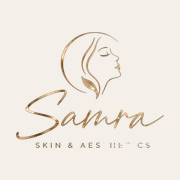
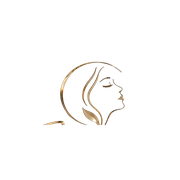
Rebuild welcome as HTML with clean lockup cutouts
Recreate transparent Samra logos from the original artwork (no cream plate),
drop the full-bleed target image + hotspot overlays, and compose the home
page with GateShell, live type, and real CTA buttons to match the target look.

diff --git a/clinic-management/src/app/globals.css b/clinic-management/src/app/globals.css
@@ -57,54 +57,6 @@ body {
   min-height: 100vh;
 }
 
-/* —— Public welcome: exact welcome-screen-target art + CTA hotspots —— */
-.welcome-target {
-  min-height: 100vh;
-  min-height: 100dvh;
-  display: grid;
-  place-items: center;
-  /* Match the mock’s champagne→sage field so letterboxing blends */
-  background: linear-gradient(152deg, #eddccc 0%, #e7ddd2 34%, #d5ddd4 68%, #c5d0c4 100%);
-  padding: 0;
-}
-
-.welcome-target__stage {
-  position: relative;
-  width: min(100vw, calc(100dvh * 864 / 1152));
-  max-width: 28rem;
-  line-height: 0;
-  animation: gate-in 560ms cubic-bezier(0.22, 1, 0.36, 1) both;
-}
-
-.welcome-target__art {
-  display: block;
-  width: 100%;
-  height: auto;
-}
-
-.welcome-target__hit {
-  position: absolute;
-  /* Calibrated to welcome-screen-target.jpg button pills */
-  top: 83.25%;
-  height: 4.6%;
-  border-radius: 999px;
-}
-
-.welcome-target__hit--staff {
-  left: 18.3%;
-  width: 31.1%;
-}
-
-.welcome-target__hit--checkin {
-  left: 52.9%;
-  width: 31.1%;
-}
-
-.welcome-target__hit:focus-visible {
-  outline: 2px solid var(--moss);
-  outline-offset: 3px;
-}
-
 a {
   color: inherit;
   text-decoration: none;
@@ -165,7 +117,13 @@ a {
 }
 
 .gate--open {
-  padding-block: clamp(2rem, 8vh, 4.5rem);
+  /* Match welcome-screen-target: one calm vertical composition */
+  min-height: 100vh;
+  min-height: 100dvh;
+  align-content: center;
+  place-items: center;
+  padding-block: clamp(1.75rem, 6vh, 3.25rem) clamp(2rem, 8vh, 4rem);
+  padding-inline: 1.25rem;
 }
 
 .gate__frame {
@@ -184,12 +142,15 @@ a {
 }
 
 .gate__frame--open {
-  width: min(34rem, 100%);
+  width: min(26rem, 100%);
   border: none;
   box-shadow: none;
   background: transparent;
   backdrop-filter: none;
   overflow: visible;
+  display: grid;
+  justify-items: center;
+  gap: 0;
 }
 
 .gate__brand {
@@ -199,11 +160,16 @@ a {
 }
 
 .gate__frame--open .gate__brand {
-  padding: 0 1rem 1.5rem;
+  padding: 0 0.5rem 1.35rem;
 }
 
 .gate__frame--open .brand-mark--gate {
-  width: min(18rem, 78vw);
+  /* Floating cutout — sized like the target mock lockup */
+  width: min(16.75rem, 72vw);
+}
+
+.gate__frame--open .brand-mark__img {
+  filter: drop-shadow(0 18px 36px rgba(26, 33, 28, 0.16));
 }
 
 .gate__eyebrow {
@@ -222,10 +188,11 @@ a {
 }
 
 .gate__frame--open .gate__body {
-  padding: 0.35rem 1.25rem 0;
+  padding: 0.15rem 0.25rem 0;
   justify-items: center;
   text-align: center;
-  gap: 1.1rem;
+  gap: 1rem;
+  width: 100%;
 }
 
 .gate__body h1 {
@@ -235,11 +202,16 @@ a {
   font-weight: 500;
   letter-spacing: -0.02em;
   line-height: 1.15;
+  color: var(--moss);
 }
 
 .gate__frame--open .gate__body h1 {
-  font-size: clamp(1.85rem, 4.6vw, 2.45rem);
-  max-width: 16ch;
+  font-size: clamp(1.9rem, 5vw, 2.35rem);
+  font-weight: 500;
+  letter-spacing: -0.025em;
+  line-height: 1.12;
+  max-width: 14ch;
+  color: #24312a;
 }
 
 .gate__lede {
@@ -250,8 +222,10 @@ a {
 }
 
 .gate__frame--open .gate__lede {
-  max-width: 38ch;
-  font-size: 1.02rem;
+  max-width: 34ch;
+  font-size: 0.98rem;
+  line-height: 1.55;
+  color: rgba(36, 49, 42, 0.72);
 }
 
 .gate__actions {
@@ -263,8 +237,28 @@ a {
 
 .gate__frame--open .gate__actions {
   justify-content: center;
-  margin-top: 0.75rem;
-  gap: 0.85rem;
+  margin-top: 1.35rem;
+  gap: 0.75rem;
+  width: 100%;
+}
+
+.gate__frame--open .gate__actions .btn {
+  min-width: 9.5rem;
+  min-height: 2.85rem;
+  padding-inline: 1.35rem;
+  font-size: 0.9rem;
+  font-weight: 500;
+}
+
+.gate__frame--open .btn--primary {
+  background: #2b3a31;
+  color: #f7f5f1;
+}
+
+.gate__frame--open .btn--ghost {
+  background: rgba(255, 252, 248, 0.55);
+  border-color: rgba(43, 58, 49, 0.32);
+  color: #2b3a31;
 }
 
 @keyframes gate-in {

diff --git a/clinic-management/src/app/page.tsx b/clinic-management/src/app/page.tsx
@@ -1,34 +1,29 @@
 import Link from "next/link";
-import Image from "next/image";
+import { GateShell } from "@/components/GateShell";
 
 /**
- * Public home — pixel-match docs/brand-samples/welcome-screen-target.jpg
- * with hotspots over the two CTA buttons.
+ * Public welcome — real HTML composition matching welcome-screen-target:
+ * floating gold lockup, serif headline, lede, and pill CTAs (no full-bleed image hotspots).
  */
 export default function HomePage() {
   return (
-    <main className="welcome-target">
-      <div className="welcome-target__stage">
-        <Image
-          src="/brand/welcome-screen-target.jpg"
-          alt="Samra Skin & Aesthetics — Thoughtful skin care, quietly refined."
-          width={864}
-          height={1152}
-          priority
-          unoptimized
-          className="welcome-target__art"
-        />
-        <Link
-          href="/staff/login"
-          className="welcome-target__hit welcome-target__hit--staff"
-          aria-label="Staff sign in"
-        />
-        <Link
-          href="/ipad"
-          className="welcome-target__hit welcome-target__hit--checkin"
-          aria-label="Clinic check-in"
-        />
+    <GateShell variant="open" logoHref={null}>
+      <h1>
+        Thoughtful skin
+        <br />
+        care, quietly refined.
+      </h1>
+      <p className="gate__lede">
+        Experience tranquility and expert care tailored to your skin&apos;s natural beauty.
+      </p>
+      <div className="gate__actions">
+        <Link className="btn btn--primary" href="/staff/login">
+          Staff sign in
+        </Link>
+        <Link className="btn btn--ghost" href="/ipad">
+          Clinic check-in
+        </Link>
       </div>
-    </main>
+    </GateShell>
   );
 }

diff --git a/clinic-management/src/components/BrandLogo.tsx b/clinic-management/src/components/BrandLogo.tsx
@@ -27,7 +27,7 @@ export function BrandLogo({
         src={placement === "rail" ? "/brand/samra-logo-320.png" : "/brand/samra-logo.png"}
         alt={BRAND.name}
         width={placement === "rail" ? 640 : 1600}
-        height={placement === "rail" ? 507 : 1268}
+        height={placement === "rail" ? 479 : 1198}
         priority={priority}
         className="brand-mark__img"
         unoptimized
